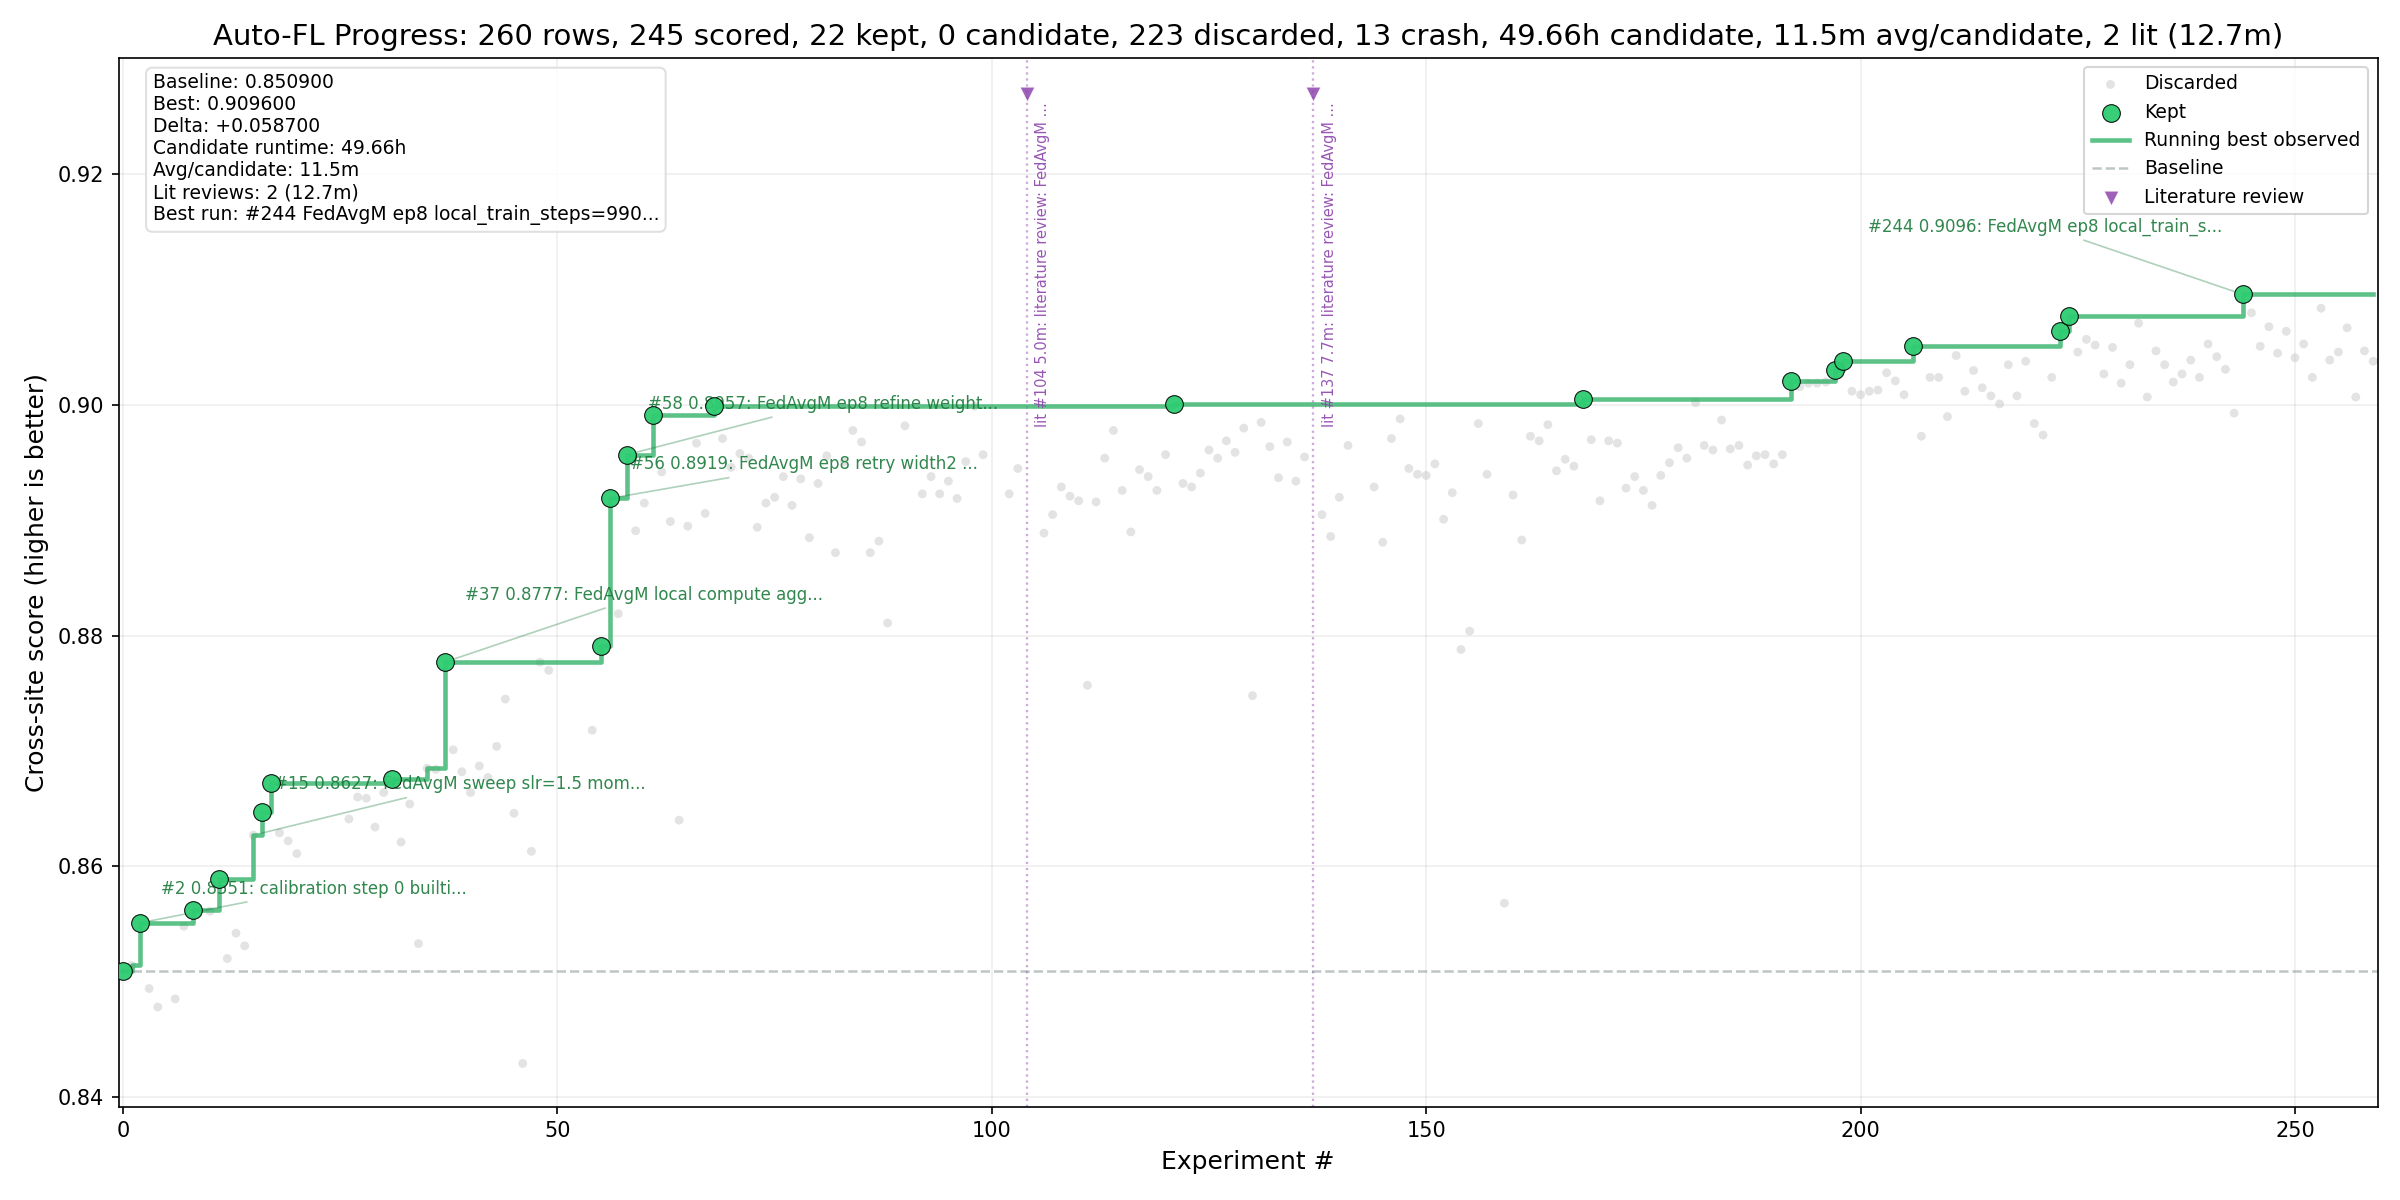
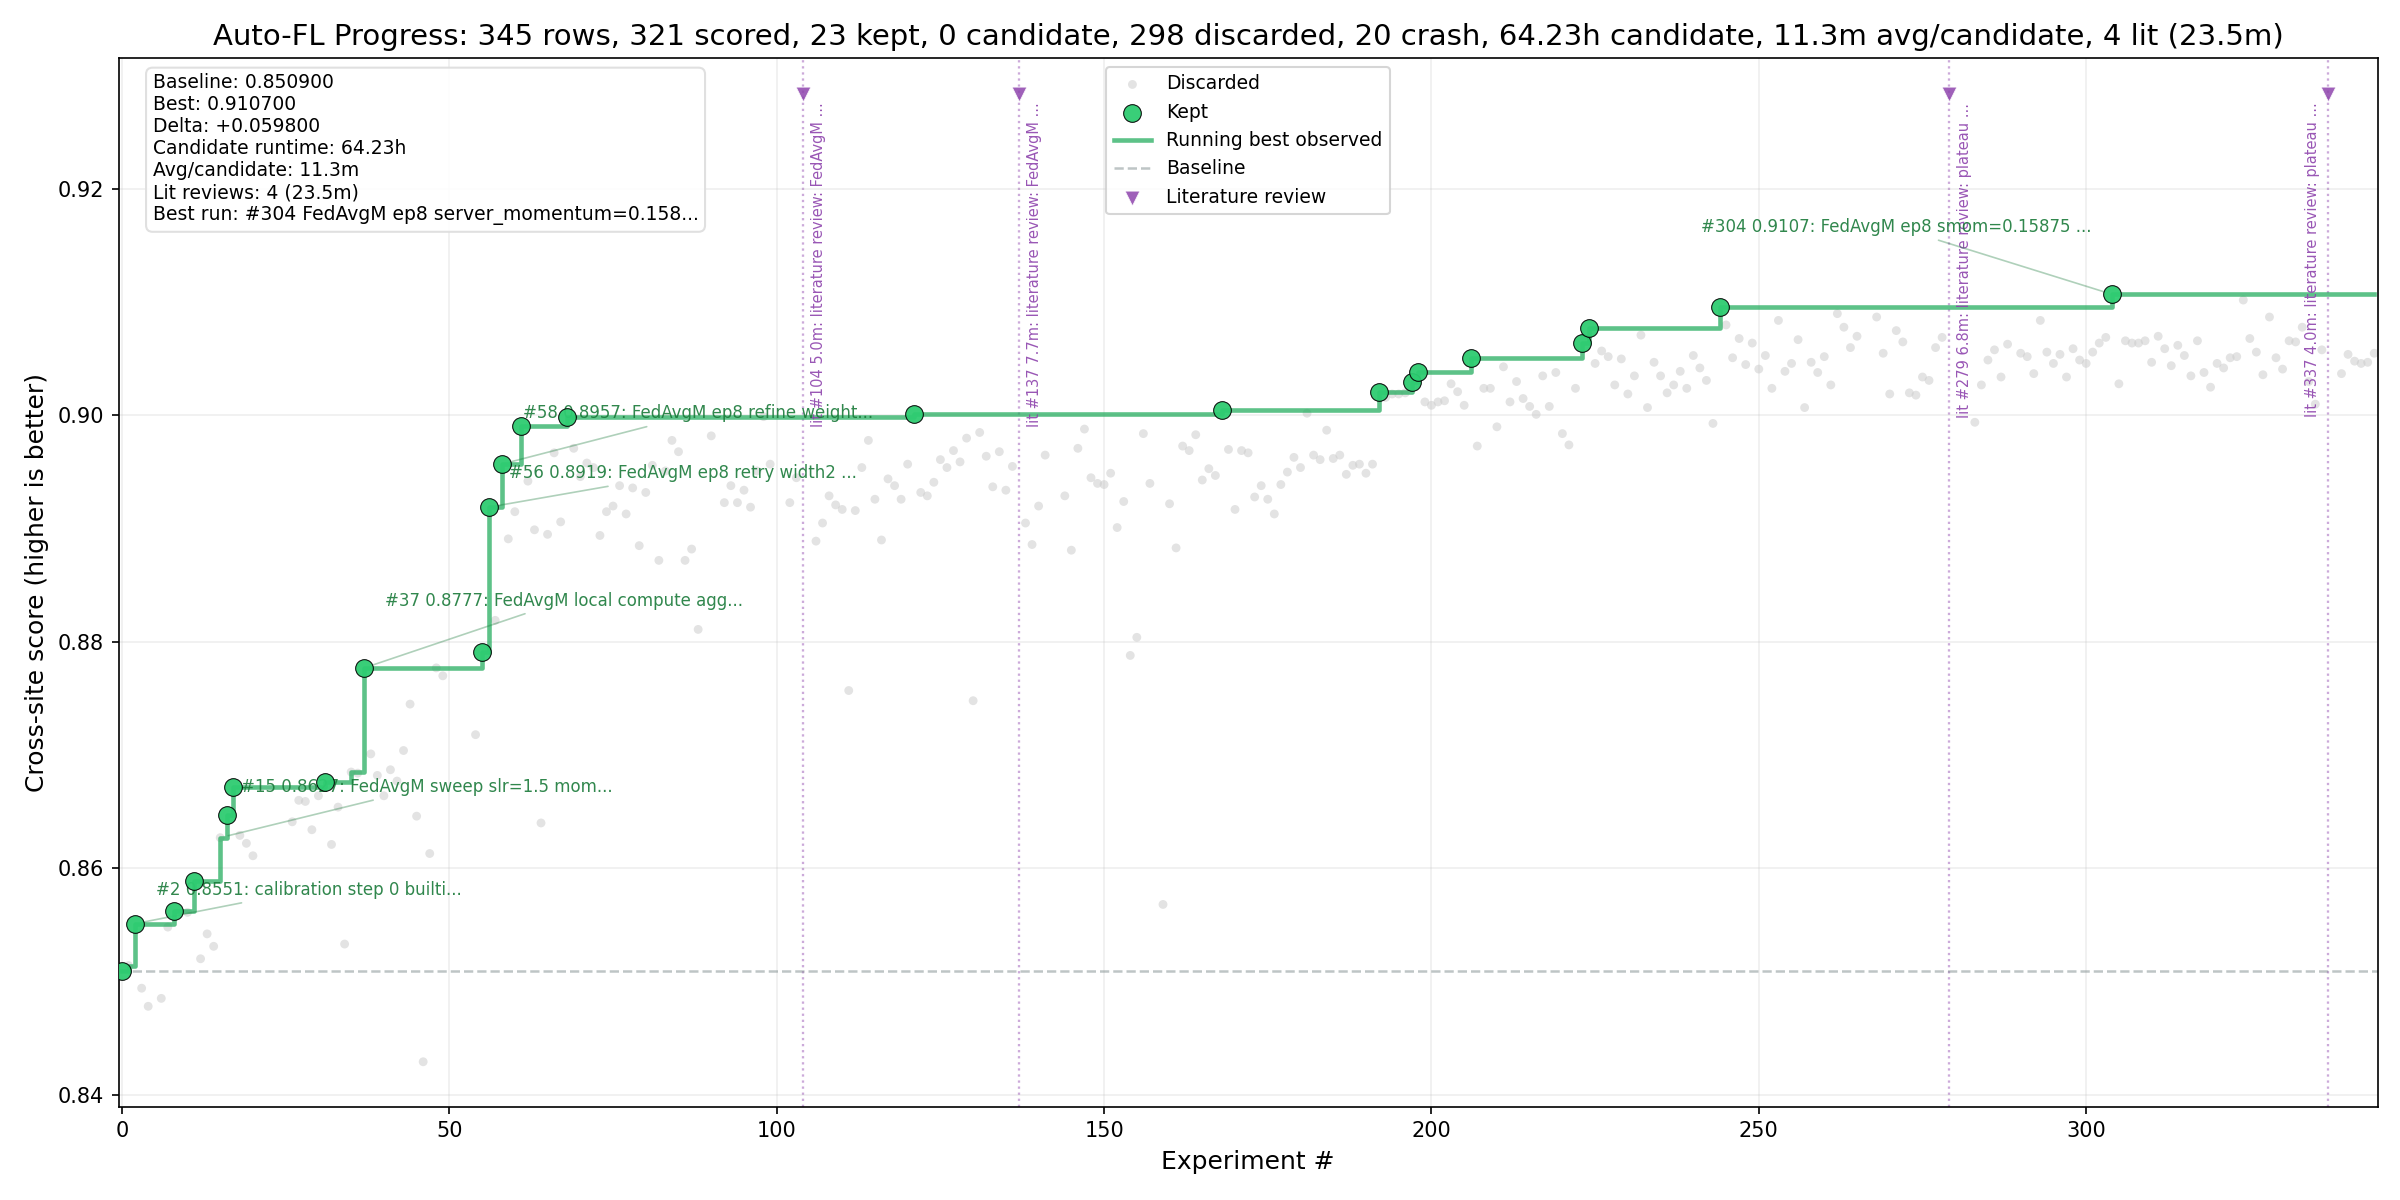
Add autoresearch campaign report

diff --git a/research/auto-fl-research/reports/autoresearch-h100-cifar10-algocal-20260512-autoresearch-report.md b/research/auto-fl-research/reports/autoresearch-h100-cifar10-algocal-20260512-autoresearch-report.md
@@ -2,12 +2,12 @@
 
 ## Executive Summary
 
-- **Branch:** `autoresearch/h100-cifar10-algocal-20260512` at `a12d741f3`
-- **Rows analyzed:** 260 total, 258 scored
-- **Best score:** 0.909600 at experiment `#244`
+- **Branch:** `autoresearch/h100-cifar10-algocal-20260512` at `87ff10a61`
+- **Rows analyzed:** 345 total, 341 scored
+- **Best score:** 0.910700 at experiment `#304`
 - **Baseline:** 0.850900 at experiment `#0`
-- **Lift:** +0.058700 absolute, 6.9% relative
-- **Runtime cost:** 49.88h aggregate; 11.5m average over 260 timed candidates
+- **Lift:** +0.059800 absolute, 7.0% relative
+- **Runtime cost:** 64.62h aggregate; 11.2m average over 345 timed candidates
 - **Agent model/effort:** Agent model/effort telemetry unavailable in this Codex runtime; no real model or effort output was pasted into the re...
 - **Agent/tooling cost:** Agent cost telemetry unavailable in this Codex runtime; no real cost output was pasted into the reporting prompt. Exp...
 - **Best status:** `keep`; treat as needing reproduction unless independently repeated or marked `keep`.
@@ -22,22 +22,22 @@
 
 | field | value |
 | --- | --- |
-| experiment | #244 |
-| score | 0.909600 |
-| delta vs baseline | +0.058700 |
-| relative lift | 6.9% |
+| experiment | #304 |
+| score | 0.910700 |
+| delta vs baseline | +0.059800 |
+| relative lift | 7.0% |
 | status | keep |
-| commit | bd769ed1a |
-| runtime | 14.1m |
+| commit | 4b51b84a7 |
+| runtime | 9.3m |
 | target | tasks/cifar10/client.py |
-| description | FedAvgM ep8 local_train_steps=990 label_smoothing=0.01 mixup_alpha=0.03 eta_min_factor=0.001 weight_decay=3.5e-4 client_momentum=0.890 server_momentum=0.15 |
-| artifact | /tmp/nvflare/simulation/r101_lts990_ls001_mix003_wd35e5_cm0890_eta001_sm015 |
+| description | FedAvgM ep8 server_momentum=0.15875 local_train_steps=990 label_smoothing=0.01 mixup_alpha=0.03 weight_decay=3.5e-4 eta_min_factor=0.001 client_momentum=0.890 |
+| artifact | /tmp/nvflare/simulation/r141_lts990_ls001_mix003_wd35e5_cm0890_eta001_sm015875 |
 | contract mode | Strict DIFF contract |
 
 ### Exact Budget / Args
 
 ```text
---n_clients 8 --num_rounds 20 --aggregation_epochs 8 --local_train_steps 990 --batch_size 64 --eval_batch_size 1024 --alpha 0.5 --seed 0 --model_arch moderate_cnn --max_model_params 5000000 --final_eval_clients site-1 --aggregator fedavgm --server_lr 1.75 --server_momentum 0.15 --weight_decay 3.5e-4 --momentum 0.890 --mixup_alpha 0.03 --label_smoothing 0.01 --cosine_lr_eta_min_factor 0.001 --name r101_lts990_ls001_mix003_wd35e5_cm0890_eta001_sm015
+--n_clients 8 --num_rounds 20 --aggregation_epochs 8 --local_train_steps 990 --batch_size 64 --eval_batch_size 1024 --alpha 0.5 --seed 0 --model_arch moderate_cnn --max_model_params 5000000 --final_eval_clients site-1 --aggregator fedavgm --server_lr 1.75 --server_momentum 0.15875 --weight_decay 3.5e-4 --momentum 0.890 --mixup_alpha 0.03 --cutmix_alpha 0.0 --label_smoothing 0.01 --cosine_lr_eta_min_factor 0.001 --name r141_lts990_ls001_mix003_wd35e5_cm0890_eta001_sm015875
 ```
 
 ## Improvement Path
@@ -55,18 +55,18 @@ Major running-best milestones, selected by first/last and largest score jumps:
 | #56 | 0.891900 | +0.012800 | FedAvgM ep8 retry width2 weight_decay=5e-4 lr=1.75 momentum=0.2 | server momentum, server diff amplification, weight decay |  |
 | #58 | 0.895700 | +0.003800 | FedAvgM ep8 refine weight_decay=3e-4 lr=1.75 momentum=0.2 | server momentum, server diff amplification, weight decay |  |
 | #61 | 0.899100 | +0.003400 | FedAvgM ep8 refine weight_decay=4e-4 lr=1.75 momentum=0.2 | server momentum, server diff amplification, weight decay |  |
-| #244 | 0.909600 | +0.001900 | FedAvgM ep8 local_train_steps=990 label_smoothing=0.01 mixup_alpha=0.... | server momentum, server diff amplification, label smoothing, weight decay |  |
+| #304 | 0.910700 | +0.001100 | FedAvgM ep8 server_momentum=0.15875 local_train_steps=990 label_smoot... | server momentum, server diff amplification, label smoothing, weight decay |  |
 
 ## Runtime and Reliability
 
 | metric | value |
 | --- | --- |
-| total aggregate runtime | 49.88h |
-| average runtime per timed candidate | 11.5m |
-| timed candidates | 260 |
+| total aggregate runtime | 64.62h |
+| average runtime per timed candidate | 11.2m |
+| timed candidates | 345 |
 | candidate rows | 0 |
-| kept rows | 22 |
-| crash rows | 13 |
+| kept rows | 23 |
+| crash rows | 20 |
 
 The runtime total is aggregate candidate runtime from `runtime_seconds`, not wall-clock elapsed campaign time.
 
@@ -92,6 +92,7 @@ Agent cost telemetry unavailable in this Codex runtime; no real cost output was 
 
 | count | description |
 | --- | --- |
+| 2 | FedAvgM ep8 local_train_steps=990 label_smoothing=0.01 FedPro... |
 | 1 | calibration step 6 FedAdam server_lr=1.0 beta1=0.9 beta2=0.99... |
 | 1 | FedAvgM refine server_lr=1.65 momentum=0.3 |
 | 1 | FedAvgM refine retry server_lr=1.65 momentum=0.1 |
@@ -99,15 +100,18 @@ Agent cost telemetry unavailable in this Codex runtime; no real cost output was 
 | 1 | FedAvgM refine retry server_lr=1.65 momentum=0.25 |
 | 1 | FedAvgM refine retry server_lr=1.65 momentum=0.3 |
 | 1 | FedAvgM ep8 weight_decay=1e-5 lr=1.75 momentum=0.2 |
-| 1 | FedAvgM ep8 weight_decay=1e-3 lr=1.75 momentum=0.2 |
 
 ## Literature-Derived Ideas
 
 | source ref | rows | best score | best description | mapped mechanism | outcome |
 | --- | --- | --- | --- | --- | --- |
-| Karimireddy20 SCAFFOLD | 1 | 0.888900 | SCAFFOLD ep8 weight_decay=4e-4 [src: Karimireddy20 SCAFFOLD] | SCAFFOLD control variates, weight decay | helped |
+| Karimireddy20 SCAFFOLD | 3 | 0.899400 | serial retry after CUBLAS allocation failure: SCAFFOLD current best l... | SCAFFOLD control variates, label smoothing, weight decay | helped |
 | Li20 FedProx | 4 | 0.892900 | FedAvgM ep8 FedProx mu=1e-5 client_momentum=0.895 server_momentum=0.1... | server momentum, server diff amplification, FedProx/client drift regularization, weight decay | helped |
+| Luo21 CCVR | 1 | 0.905400 | architecture subcampaign moderate_cnn_small_head current r141 FedAvgM... | server momentum, server diff amplification, label smoothing, weight decay | helped |
 | Reddi21 FedOpt | 3 | 0.811600 | FedYogi damped ep8 server_lr=0.1 tau=1e-2 client_momentum=0.895 weigh... | server diff amplification, weight decay | not confirmed |
+| Sutskever13 Nesterov | 2 | 0.903700 | FedAvgM ep8 Nesterov client SGD current r141 stack server_momentum=0.... | server momentum, server diff amplification, label smoothing, weight decay | helped |
+| Wu18 GroupNorm; Li21 FedBN | 2 | 0.000000 | architecture subcampaign GroupNorm moderate_cnn_norm FedAvgM local_tr... | server momentum, server diff amplification, label smoothing, weight decay | not confirmed |
+| Yun19 CutMix | 4 | 0.905800 | FedAvgM ep8 local_train_steps=990 label_smoothing=0.01 cutmix_alpha=0... | server momentum, server diff amplification, label smoothing, weight decay | helped |
 | Zhang18 mixup; Yoon21 FedMix | 4 | 0.896500 | FedAvgM ep8 Mixup alpha=0.05 client_momentum=0.895 server_momentum=0.... | server momentum, server diff amplification, weight decay | helped |
 
 Source refs are extracted from `[src: ...]` markers in `results.tsv` descriptions. Check `templates/mutation_report.md` or the campaign notes for full citations and URLs.
@@ -138,23 +142,23 @@ Source refs are extracted from `[src: ...]` markers in `results.tsv` description
 
 | status | rows |
 | --- | --- |
-| crash | 13 |
-| discard | 223 |
-| keep | 22 |
-| literature | 2 |
+| crash | 20 |
+| discard | 298 |
+| keep | 23 |
+| literature | 4 |
 
 ### Top Scored Rows
 
 | rank | experiment | score | runtime | status | description |
 | --- | --- | --- | --- | --- | --- |
-| 1 | #244 | 0.909600 | 14.1m | keep | FedAvgM ep8 local_train_steps=990 label_smoothing=0.01 mixup_alpha=0.03 eta_min_facto... |
-| 2 | #253 | 0.908400 | 13.5m | discard | FedAvgM ep8 local_train_steps=990 label_smoothing=0.01 mixup_alpha=0.03 eta_min_facto... |
-| 3 | #245 | 0.908000 | 14.1m | discard | FedAvgM ep8 local_train_steps=990 label_smoothing=0.02 mixup_alpha=0.03 eta_min_facto... |
-| 4 | #224 | 0.907700 | 13.6m | keep | FedAvgM ep8 local_train_steps=990 mixup_alpha=0.03 eta_min_factor=0.001 weight_decay=... |
-| 5 | #232 | 0.907100 | 13.5m | discard | FedAvgM ep8 local_train_steps=990 mixup_alpha=0.03 eta_min_factor=0.001 weight_decay=... |
-| 6 | #247 | 0.906800 | 14.2m | discard | FedAvgM ep8 local_train_steps=990 label_smoothing=0.015 mixup_alpha=0.03 eta_min_fact... |
-| 7 | #256 | 0.906700 | 14.0m | discard | FedAvgM ep8 local_train_steps=990 label_smoothing=0.01 mixup_alpha=0.03 eta_min_facto... |
-| 8 | #223 | 0.906400 | 13.3m | keep | FedAvgM ep8 local_train_steps=1000 mixup_alpha=0.03 eta_min_factor=0.001 weight_decay... |
-| 9 | #249 | 0.906400 | 14.3m | discard | FedAvgM ep8 local_train_steps=995 label_smoothing=0.01 mixup_alpha=0.03 eta_min_facto... |
-| 10 | #226 | 0.905700 | 12.9m | discard | FedAvgM ep8 local_train_steps=992 mixup_alpha=0.03 eta_min_factor=0.001 weight_decay=... |
+| 1 | #304 | 0.910700 | 9.3m | keep | FedAvgM ep8 server_momentum=0.15875 local_train_steps=990 label_smoothing=0.01 mixup_... |
+| 2 | #324 | 0.910200 | 8.3m | discard | FedAvgM ep8 max_grad_norm=6.5 server_momentum=0.15875 local_train_steps=990 label_smo... |
+| 3 | #244 | 0.909600 | 14.1m | keep | FedAvgM ep8 local_train_steps=990 label_smoothing=0.01 mixup_alpha=0.03 eta_min_facto... |
+| 4 | #262 | 0.909000 | 16.1m | discard | FedAvgM ep8 local_train_steps=990 label_smoothing=0.01 mixup_alpha=0.03 eta_min_facto... |
+| 5 | #268 | 0.908700 | 16.0m | discard | FedAvgM ep8 local_train_steps=990 label_smoothing=0.01 mixup_alpha=0.03 eta_min_facto... |
+| 6 | #328 | 0.908700 | 8.3m | discard | FedAvgM ep8 max_grad_norm=6.25 server_momentum=0.15875 local_train_steps=990 label_sm... |
+| 7 | #253 | 0.908400 | 13.5m | discard | FedAvgM ep8 local_train_steps=990 label_smoothing=0.01 mixup_alpha=0.03 eta_min_facto... |
+| 8 | #293 | 0.908400 | 9.3m | discard | FedAvgM ep8 server_momentum=0.1575 local_train_steps=990 label_smoothing=0.01 mixup_a... |
+| 9 | #245 | 0.908000 | 14.1m | discard | FedAvgM ep8 local_train_steps=990 label_smoothing=0.02 mixup_alpha=0.03 eta_min_facto... |
+| 10 | #263 | 0.907800 | 16.1m | discard | FedAvgM ep8 local_train_steps=990 label_smoothing=0.01 mixup_alpha=0.03 eta_min_facto... |
 
